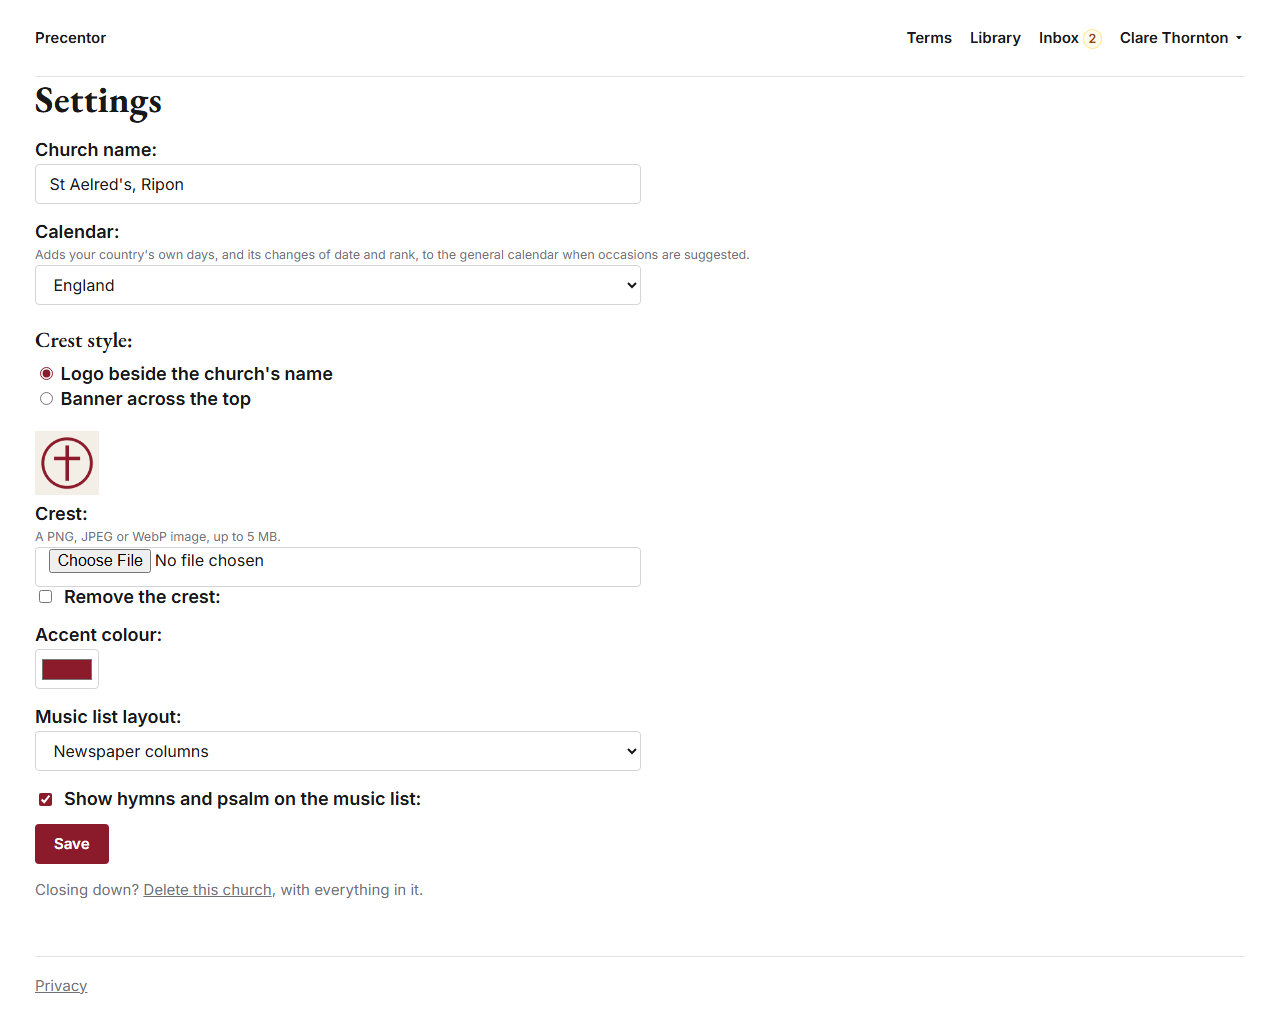
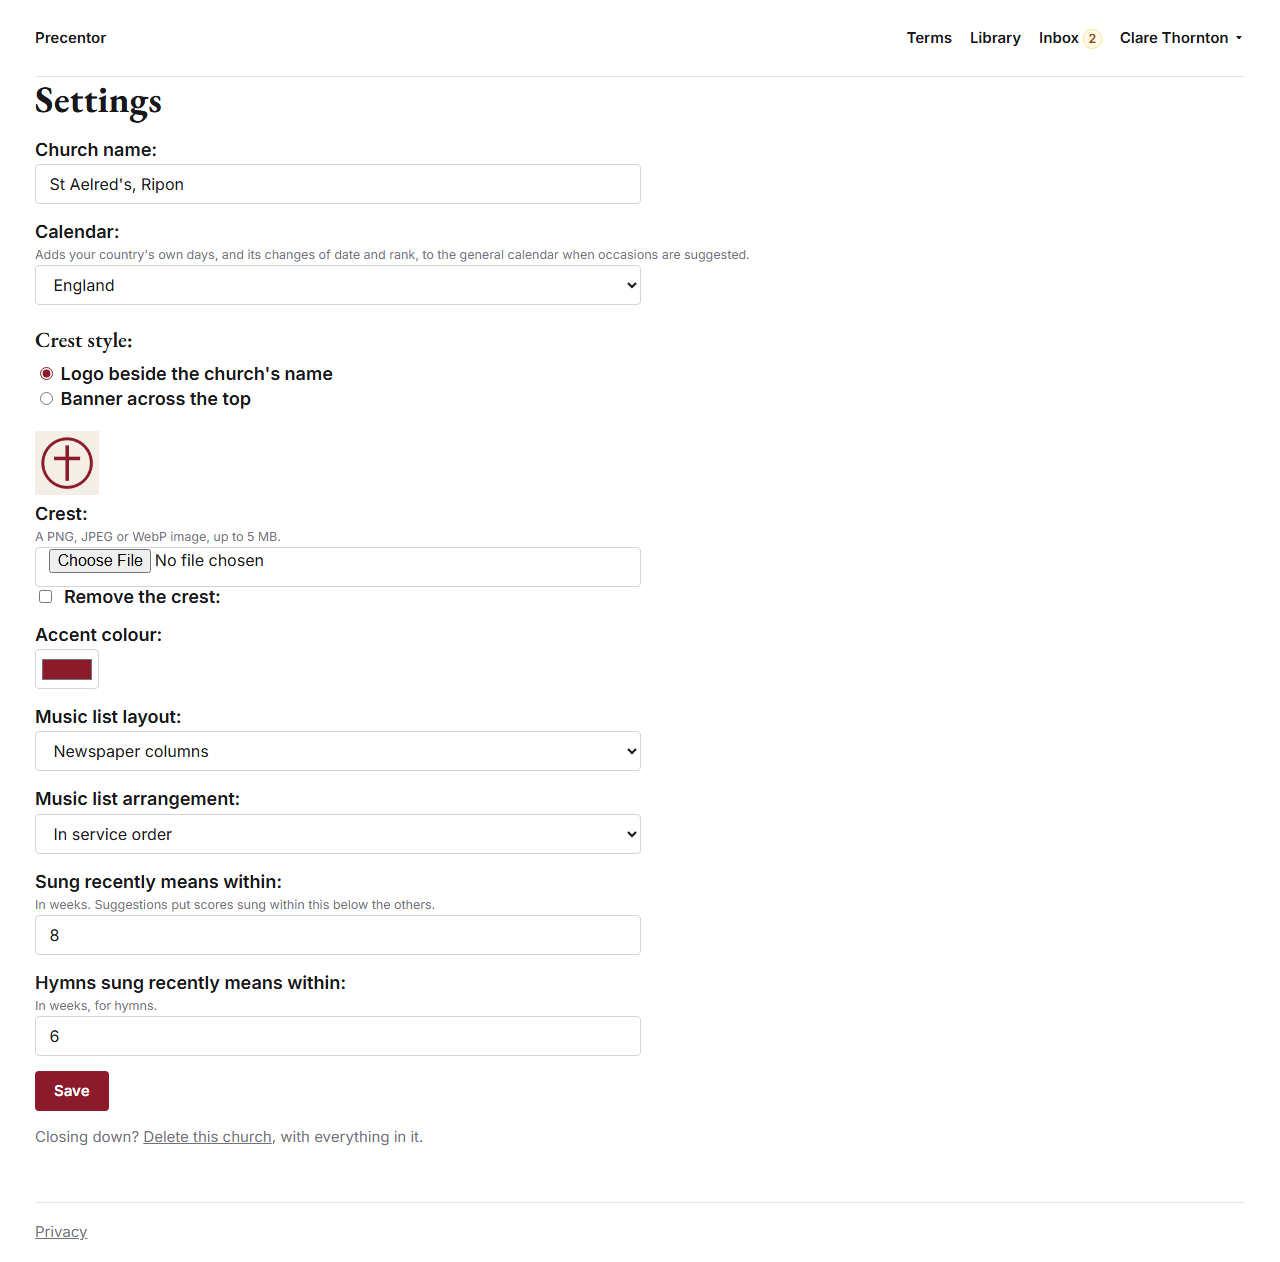
Retake the README screenshots for the slot kinds and suggestions
The service, picker and Settings pictures were from submission day, so
they showed none of the slot kinds, suggestion groups or newer
settings. I retook them all from a fresh demo church and brought the
three captions up to date.

Changed region(s): [[0.0, 0.0305, 0.5938, 0.9163], [0.7188, 0.0305, 0.9688, 0.0611], [0.0312, 0.9468, 0.0625, 1.0]]

diff --git a/README.md b/README.md
@@ -290,7 +290,7 @@ _Figure 11. A term: its services in date order with their status, its notices an
 
 ![The Sung Mass for the First Sunday of Advent, with slots from the Mass template holding confirmed pieces, the Gloria and Credo marked N/A, the template buttons and a comment](docs/screenshots/06-service.png)
 
-_Figure 12. A service: the occasion worked out from its date, slots added from the Mass template, confirmed pieces and two slots marked N/A._
+_Figure 12. A service: the occasion worked out from its date, slots added from the Mass template with each one's kind, confirmed pieces and two slots marked N/A._
 
 ### 3.3 Proposing and Confirming
 
@@ -333,7 +333,7 @@ term and see at once which services still need attention.
 
 ![A service page with a slot's score search box open and a list of matching scores beneath it](docs/screenshots/07-propose-a-piece.png)
 
-_Figure 13. Proposing a piece from the slot's search box._
+_Figure 13. Proposing a piece from the slot's search box: on an Advent Sunday the season's scores are suggested first, each with its reasons._
 
 ### 3.4 Ordo (the Liturgical Calendar)
 
@@ -471,7 +471,7 @@ _Figure 14. The public music list for Advent, with Public, Draft and Print at th
 
 ![The Settings page with the church's name, national calendar, crest style, the current crest, accent colour and music list layout](docs/screenshots/14-settings.png)
 
-_Figure 15. Settings: the church's name, crest and calendar, which the music list uses._
+_Figure 15. Settings: the church's name, calendar and crest, how the music list is laid out, and how recent counts as sung recently for suggestions._
 
 **The pew sheet.** Each service also has a sheet for the congregation,
 linked from its page for every role. It prints the service's confirmed
